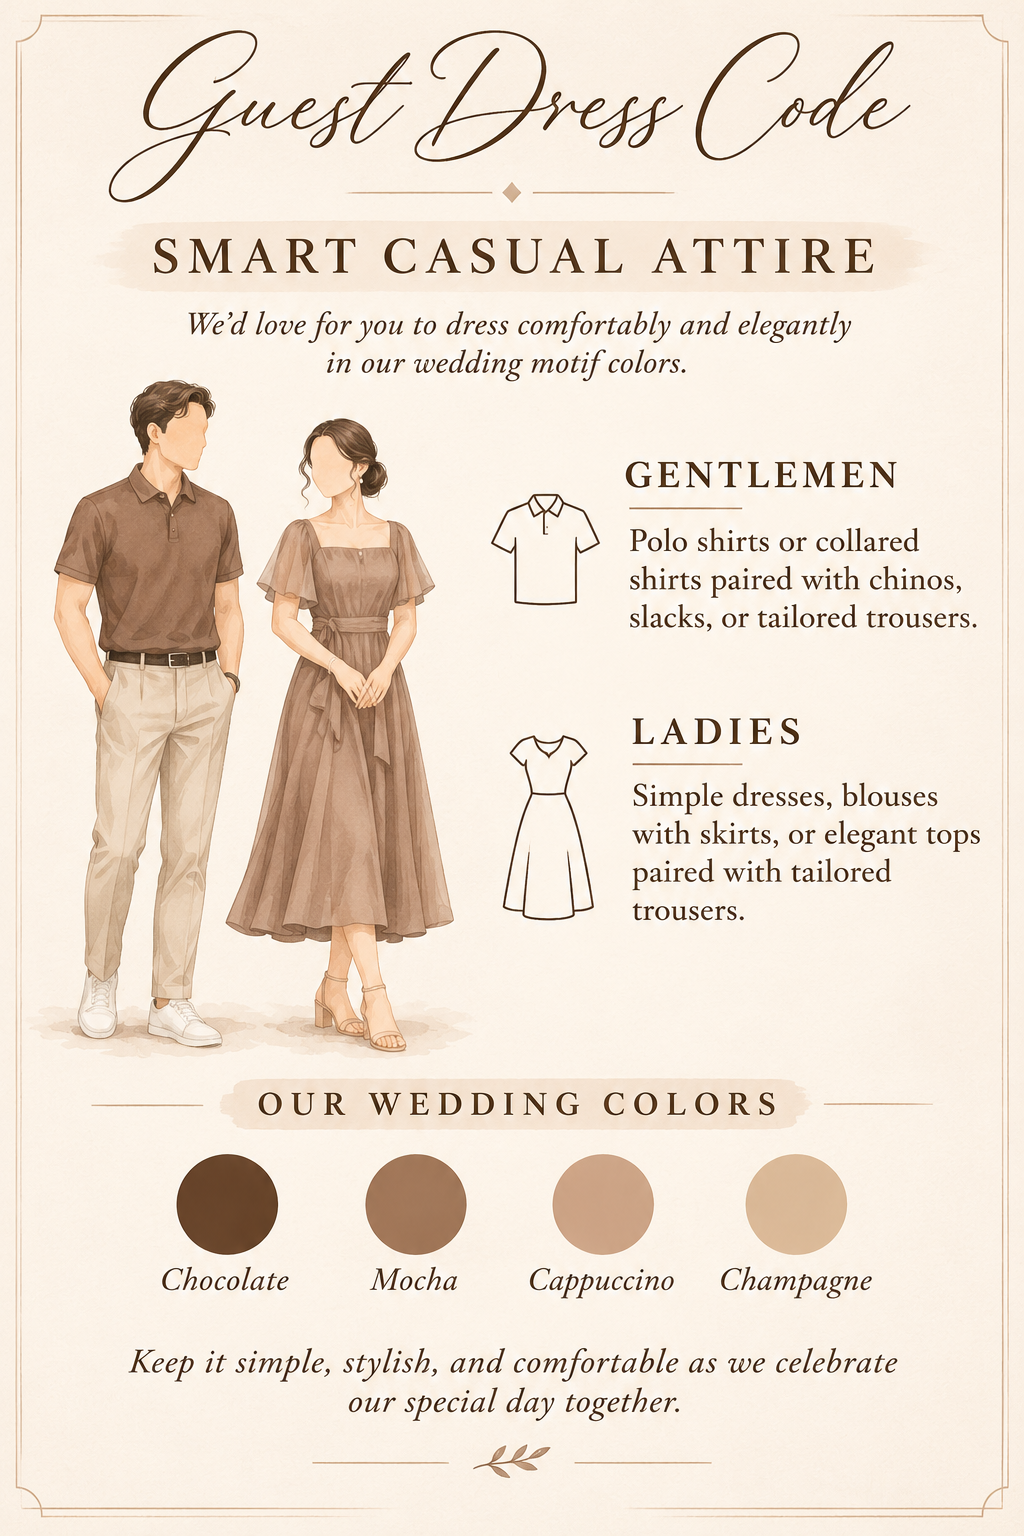
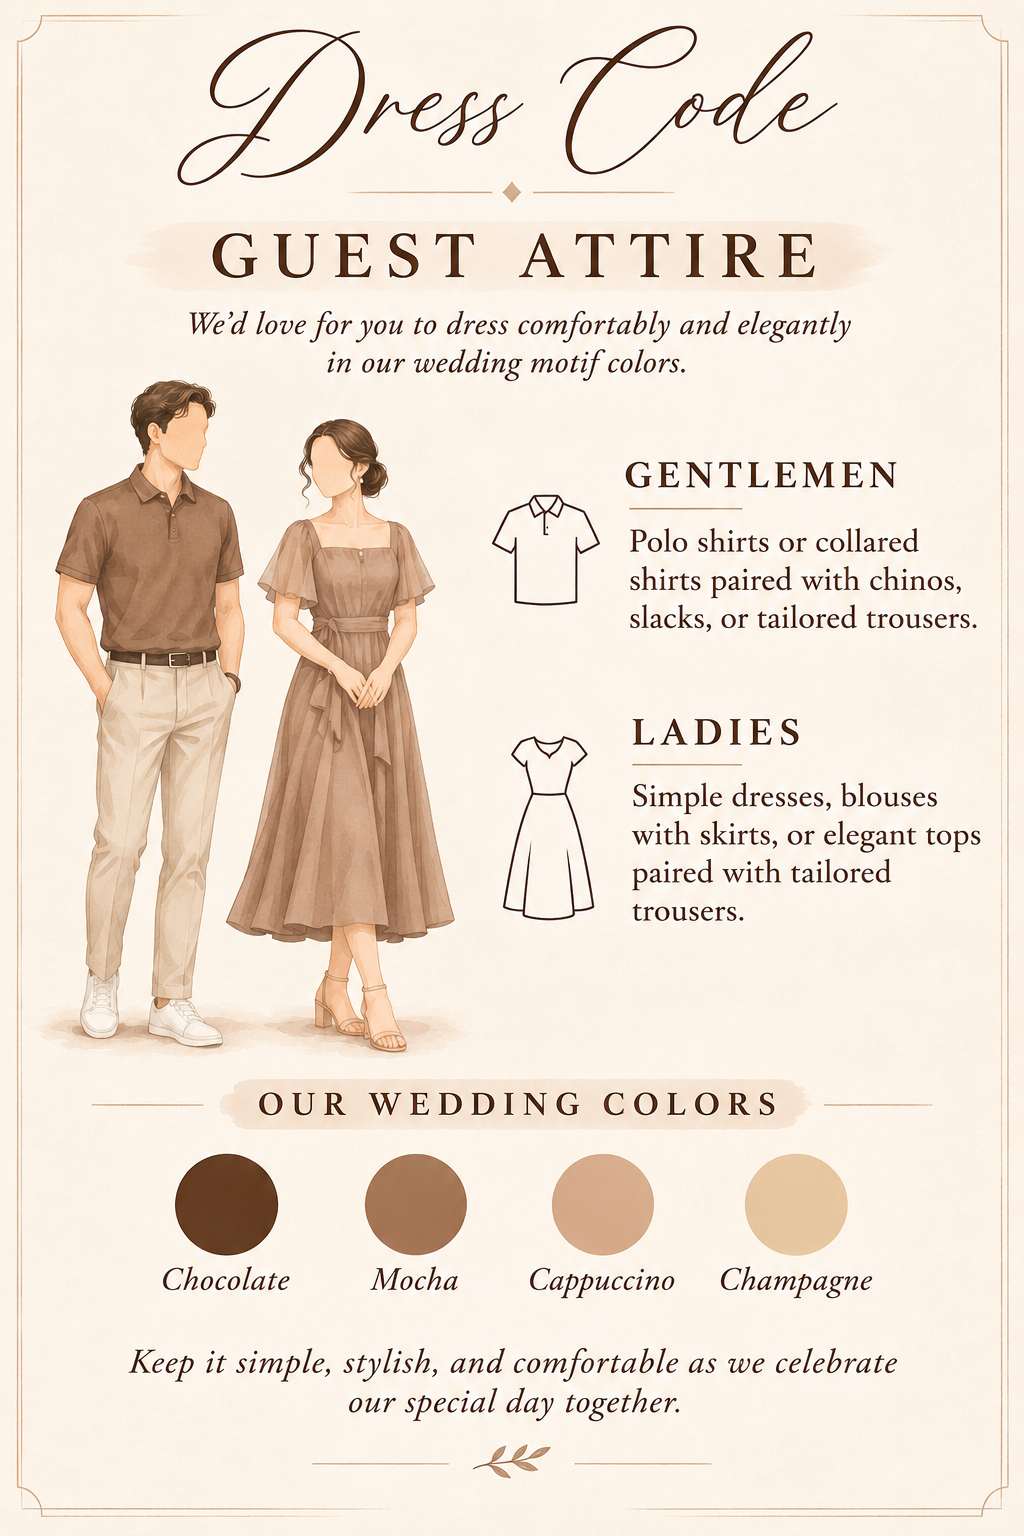
Fix social preview and update guest dress code

diff --git a/app/layout.tsx b/app/layout.tsx
@@ -2,21 +2,25 @@ import type { Metadata } from "next";
 import "./globals.css";
 
 export const metadata: Metadata = {
-  metadataBase: new URL("https://wedding-rsvp-eight-zeta.vercel.app"),
+  metadataBase: new URL("https://wedding.fenatti.me"),
   title: "Adrian & KC — Our Wedding",
   description: "An invitation to celebrate the wedding of Adrian & KC.",
+  alternates: {
+    canonical: "https://wedding.fenatti.me/",
+  },
   openGraph: {
     title: "Adrian & KC — Our Wedding",
     description: "An invitation to celebrate the wedding of Adrian & KC.",
-    url: "https://wedding-rsvp-eight-zeta.vercel.app",
+    url: "https://wedding.fenatti.me/",
     siteName: "Adrian & KC — Our Wedding",
     type: "website",
     images: [
       {
-          url: "/landing-page-preview.png",
-          width: 802,
-          height: 635,
-          alt: "Adrian and KC wedding invitation landing page",
+        url: "/og-wedding.jpg",
+        width: 1200,
+        height: 630,
+        type: "image/jpeg",
+        alt: "Adrian and KC wedding invitation",
       },
     ],
   },
@@ -24,7 +28,7 @@ export const metadata: Metadata = {
     card: "summary_large_image",
     title: "Adrian & KC — Our Wedding",
     description: "An invitation to celebrate the wedding of Adrian & KC.",
-      images: ["/landing-page-preview.png"],
+    images: ["/og-wedding.jpg"],
   },
 };
 

diff --git a/app/page.tsx b/app/page.tsx
@@ -19,8 +19,8 @@ const dressGuides: Record<DressRole, { title: string; copy: string }> = {
     copy: "Ladies: floor-length chocolate brown formal gown. Gentlemen: chocolate brown formal suit.",
   },
   Guest: {
-    title: "Smart casual attire",
-    copy: "Dress comfortably and elegantly in our wedding motif colors. Gentlemen: polo or collared shirts with chinos, slacks, or tailored trousers. Ladies: simple dresses, blouses with skirts, or elegant tops with tailored trousers.",
+    title: "Guest attire",
+    copy: "We’d love for you to dress comfortably and elegantly in our wedding motif colors. Gentlemen: polo shirts or collared shirts paired with chinos, slacks, or tailored trousers. Ladies: simple dresses, blouses with skirts, or elegant tops paired with tailored trousers.",
   },
 };
 
@@ -82,7 +82,7 @@ const dressRoleImages: Record<DressRole, { src: string; alt: string }> = {
   },
   Guest: {
     src: "/guest-dress-code.png",
-    alt: "Guest dress code: smart casual attire in the wedding motif colors",
+    alt: "Guest attire: comfortable and elegant wedding attire in the wedding motif colors",
   },
 };
 
